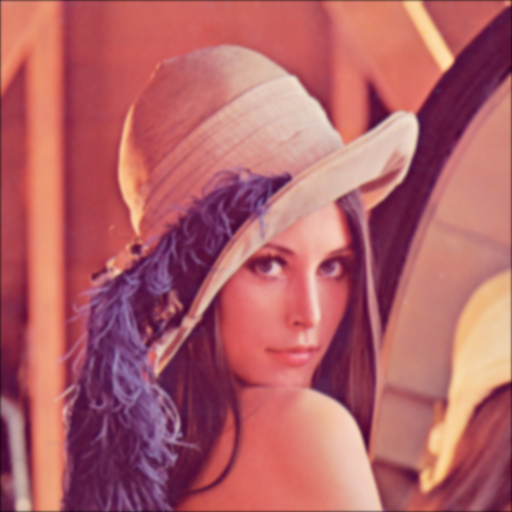
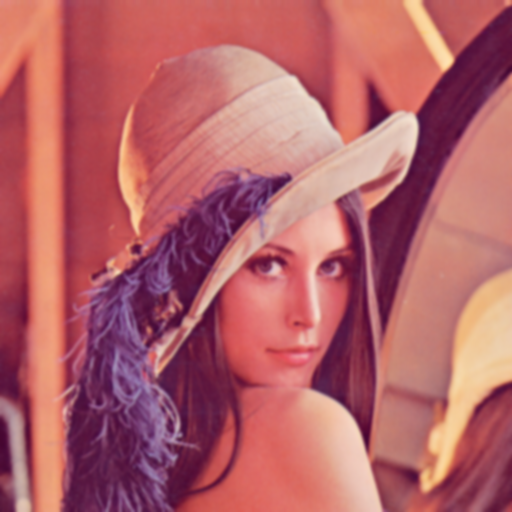
update kernel implementation

diff --git a/test/OpenCLConvolution.hpp b/test/OpenCLConvolution.hpp
@@ -4,6 +4,7 @@
 #include <CL/cl_platform.h>
 #include <benchmark/benchmark.h>
 #include <fstream>
+#include <opencv2/core/hal/interface.h>
 #include <sstream>
 #include <string>
 #include <iostream>
@@ -25,10 +26,14 @@ public:
   void UnInit();
 
   bool BuildKernel(const std::string& source_path, const char* kernel_func_name, cl_kernel* out_kernel, cl_program* out_program);
-  bool RunKernel(cl_kernel kernel, cl_command_queue queue,
-    cl_mem input_buffer, cl_mem output_buffer,
-    cl_mem gaussian_kernel, cl_uint width, cl_uint height,
-    cl_uint pitch, cl_uint k_w, cl_uint k_h);
+  bool RunConvolutionRows(cl_command_queue queue,
+    cl_mem input_buffer, cl_mem temp_buffer,
+    cl_mem gaussian_kernel_1d, cl_uint width, cl_uint height,
+    cl_uint pitch, cl_uint k_w);
+  bool RunConvolutionCols(cl_command_queue queue,
+    cl_mem temp_buffer, cl_mem output_buffer,
+    cl_mem gaussian_kernel_1d, cl_uint width, cl_uint height,
+    cl_uint pitch, cl_uint k_h);
 
   bool Run(const cv::Mat& input, const std::vector<float>& kernel, cv::Mat& output);
   bool IsValid() const;
@@ -41,7 +46,6 @@ private:
   cl_program program_;
   cl_kernel kernel_rows_;
   cl_kernel kernel_cols_;
-  cl_kernel kernel_;
   bool valid_;
 };
 
@@ -90,8 +94,12 @@ inline bool OpenCLSeperableConv::Init() {
   valid_ = true;
 
   BuildKernel(
-    "/home/kumo/dev/hello_ocl_runtime/kernels/gaussian_blur.cl",
-    "gaussian_blur", &kernel_, &program_);
+    "/home/kumo/dev/hello_ocl_runtime/kernels/gaussian_blur_seperate.cl",
+    "gaussian_blur_rows", &kernel_rows_, &program_);
+  
+  BuildKernel(
+    "/home/kumo/dev/hello_ocl_runtime/kernels/gaussian_blur_seperate.cl",
+    "gaussian_blur_cols", &kernel_cols_, &program_);
   return true;
 
   return true;
@@ -154,14 +162,12 @@ inline bool OpenCLSeperableConv::BuildKernel(const std::string& source_path, con
 inline void OpenCLSeperableConv::UnInit() {
   if (kernel_cols_) clReleaseKernel(kernel_cols_);
   if (kernel_rows_) clReleaseKernel(kernel_rows_);
-  if (kernel_) clReleaseKernel(kernel_);
   if (program_) clReleaseProgram(program_);
   if (queue_) clReleaseCommandQueue(queue_);
   if (context_) clReleaseContext(context_);
   // device_ 和 platform_ 不需要释放
   kernel_cols_ = nullptr;
   kernel_rows_ = nullptr;
-  kernel_ = nullptr;
   program_ = nullptr;
   queue_ = nullptr;
   context_ = nullptr;
@@ -171,28 +177,56 @@ inline void OpenCLSeperableConv::UnInit() {
 }
 
 inline bool
-OpenCLSeperableConv::RunKernel(cl_kernel kernel, cl_command_queue queue,
-                               cl_mem input_buffer, cl_mem output_buffer,
-                               cl_mem gaussian_kernel, cl_uint width, cl_uint height,
-                               cl_uint pitch, cl_uint k_w, cl_uint k_h) {
+OpenCLSeperableConv::RunConvolutionRows(cl_command_queue queue,
+  cl_mem input_buffer, cl_mem temp_buffer,
+  cl_mem gaussian_kernel_1d, cl_uint width, cl_uint height,
+  cl_uint pitch, cl_uint k_w) {
   cl_int err;
 
   int arg_index = 0;
-  err  = clSetKernelArg(kernel, arg_index++, sizeof(cl_mem), (void*)&input_buffer);
-  err |= clSetKernelArg(kernel, arg_index++, sizeof(cl_mem), (void*)&output_buffer);
-  err |= clSetKernelArg(kernel, arg_index++, sizeof(cl_mem), (void*)&gaussian_kernel);
-  err |= clSetKernelArg(kernel, arg_index++, sizeof(cl_uint), (void*)&width);
-  err |= clSetKernelArg(kernel, arg_index++, sizeof(cl_uint), (void*)&height);
-  err |= clSetKernelArg(kernel, arg_index++, sizeof(cl_uint), (void*)&pitch);
-  err |= clSetKernelArg(kernel, arg_index++, sizeof(cl_uint), (void*)&k_w);
-  err |= clSetKernelArg(kernel, arg_index++, sizeof(cl_uint), (void*)&k_h);
+  err  = clSetKernelArg(kernel_rows_, arg_index++, sizeof(cl_mem), (void*)&input_buffer);
+  err |= clSetKernelArg(kernel_rows_, arg_index++, sizeof(cl_mem), (void*)&temp_buffer);
+  err |= clSetKernelArg(kernel_rows_, arg_index++, sizeof(cl_mem), (void*)&gaussian_kernel_1d);
+  err |= clSetKernelArg(kernel_rows_, arg_index++, sizeof(cl_uint), (void*)&width);
+  err |= clSetKernelArg(kernel_rows_, arg_index++, sizeof(cl_uint), (void*)&height);
+  err |= clSetKernelArg(kernel_rows_, arg_index++, sizeof(cl_uint), (void*)&pitch);
+  err |= clSetKernelArg(kernel_rows_, arg_index++, sizeof(cl_uint), (void*)&k_w);
   if (err != CL_SUCCESS) {
     std::cerr << "RunKernel failed" << std::endl;
     return false;
   }
 
   size_t globalWorkSize[2] = { (size_t)height, (size_t)width};
-  err = clEnqueueNDRangeKernel(queue, kernel, 2, nullptr, globalWorkSize, nullptr, 0, nullptr, nullptr);
+  err = clEnqueueNDRangeKernel(queue, kernel_rows_, 2, nullptr, globalWorkSize, nullptr, 0, nullptr, nullptr);
+  if (err != CL_SUCCESS) {
+    std::cerr << "clEnqueueNDRangeKernel failed return " << err << std::endl;
+  }
+
+  return true;
+}
+
+inline bool
+OpenCLSeperableConv::RunConvolutionCols(cl_command_queue queue,
+  cl_mem temp_buffer, cl_mem output_buffer,
+  cl_mem gaussian_kernel_1d, cl_uint width, cl_uint height,
+  cl_uint pitch, cl_uint k_h) {
+  cl_int err;
+
+  int arg_index = 0;
+  err |= clSetKernelArg(kernel_cols_, arg_index++, sizeof(cl_mem), (void*)&temp_buffer);
+  err  = clSetKernelArg(kernel_cols_, arg_index++, sizeof(cl_mem), (void*)&output_buffer);
+  err |= clSetKernelArg(kernel_cols_, arg_index++, sizeof(cl_mem), (void*)&gaussian_kernel_1d);
+  err |= clSetKernelArg(kernel_cols_, arg_index++, sizeof(cl_uint), (void*)&width);
+  err |= clSetKernelArg(kernel_cols_, arg_index++, sizeof(cl_uint), (void*)&height);
+  err |= clSetKernelArg(kernel_cols_, arg_index++, sizeof(cl_uint), (void*)&pitch);
+  err |= clSetKernelArg(kernel_cols_, arg_index++, sizeof(cl_uint), (void*)&k_h);
+  if (err != CL_SUCCESS) {
+    std::cerr << "RunKernel failed" << std::endl;
+    return false;
+  }
+
+  size_t globalWorkSize[2] = { (size_t)height, (size_t)width};
+  err = clEnqueueNDRangeKernel(queue, kernel_cols_, 2, nullptr, globalWorkSize, nullptr, 0, nullptr, nullptr);
   if (err != CL_SUCCESS) {
     std::cerr << "clEnqueueNDRangeKernel failed return " << err << std::endl;
   }
@@ -220,6 +254,13 @@ inline bool OpenCLSeperableConv::Run(const cv::Mat& input, const std::vector<flo
     return false;
   }
 
+  cl_mem temp_buf = clCreateBuffer(context_, 
+    CL_MEM_READ_WRITE, image_size * sizeof(uchar), nullptr, &err);
+  if (err != CL_SUCCESS) {
+    std::cerr << "clCreateBuffer temp buffer failed return " << err << std::endl;
+    return false;
+  }
+
   cl_mem output_buf = clCreateBuffer(context_,
     CL_MEM_WRITE_ONLY,
     image_size * sizeof(uchar),
@@ -241,16 +282,21 @@ inline bool OpenCLSeperableConv::Run(const cv::Mat& input, const std::vector<flo
     return false;
   }
 
-  uchar k_w = sqrt(kernel.size());
-  uchar k_h = sqrt(kernel.size());
-  if (k_w * k_h != kernel.size()) {
-    std::cerr << "kernel size incorrect!!!" << k_h << ", " << k_w << ", " << kernel.size() << std::endl;
-  }
-  RunKernel(
-    kernel_, queue_,
-    input_buf, output_buf, kernel_buf,
+  uchar k_w = kernel.size();
+  uchar k_h = kernel.size();
+
+  RunConvolutionRows(
+    queue_,
+    input_buf, temp_buf, kernel_buf,
     width, height, width * channels,
-    k_h, k_w
+    k_w
+  );
+
+  RunConvolutionCols(
+    queue_,
+    temp_buf, output_buf, kernel_buf,
+    width, height, width * channels,
+    k_h
   );
 
   clFinish(queue_);
@@ -267,6 +313,7 @@ inline bool OpenCLSeperableConv::Run(const cv::Mat& input, const std::vector<flo
 
   if (err != CL_SUCCESS) {
     clReleaseMemObject(input_buf);
+    clReleaseMemObject(temp_buf);
     clReleaseMemObject(output_buf);
     clReleaseMemObject(kernel_buf);
     std::cerr << "clEnqueueReadBuffer failed return " << err << std::endl;
@@ -274,6 +321,7 @@ inline bool OpenCLSeperableConv::Run(const cv::Mat& input, const std::vector<flo
 
   output = cv::Mat(height, width, CV_8UC3, output_host.data()).clone();
   clReleaseMemObject(input_buf);
+  clReleaseMemObject(temp_buf);
   clReleaseMemObject(output_buf);
   clReleaseMemObject(kernel_buf);
   return true;

diff --git a/test/main.cpp b/test/main.cpp
@@ -33,7 +33,7 @@ std::vector<float> createGaussianKernel1D(int radius, float sigma) {
   return kernel;
 }
 
-std::vector<float> generateGaussianKernel2D(int radius, float sigma) {
+std::vector<float> createGaussianKernel2D(int radius, float sigma) {
   int ksize = 2 * radius + 1;
   std::vector<float> kernel(ksize * ksize);
 
@@ -117,7 +117,7 @@ static void BM_GaussianBlur2dGPU(benchmark::State& state) {
 
   int radius = static_cast<int>(state.range(0));
   float sigma = static_cast<float>(state.range(1)) / 10.0f;
-  auto kernel = generateGaussianKernel2D(radius, sigma);
+  auto kernel = createGaussianKernel1D(radius, sigma);
 
   kumo::OpenCLSeperableConv opencl_conv;
 
